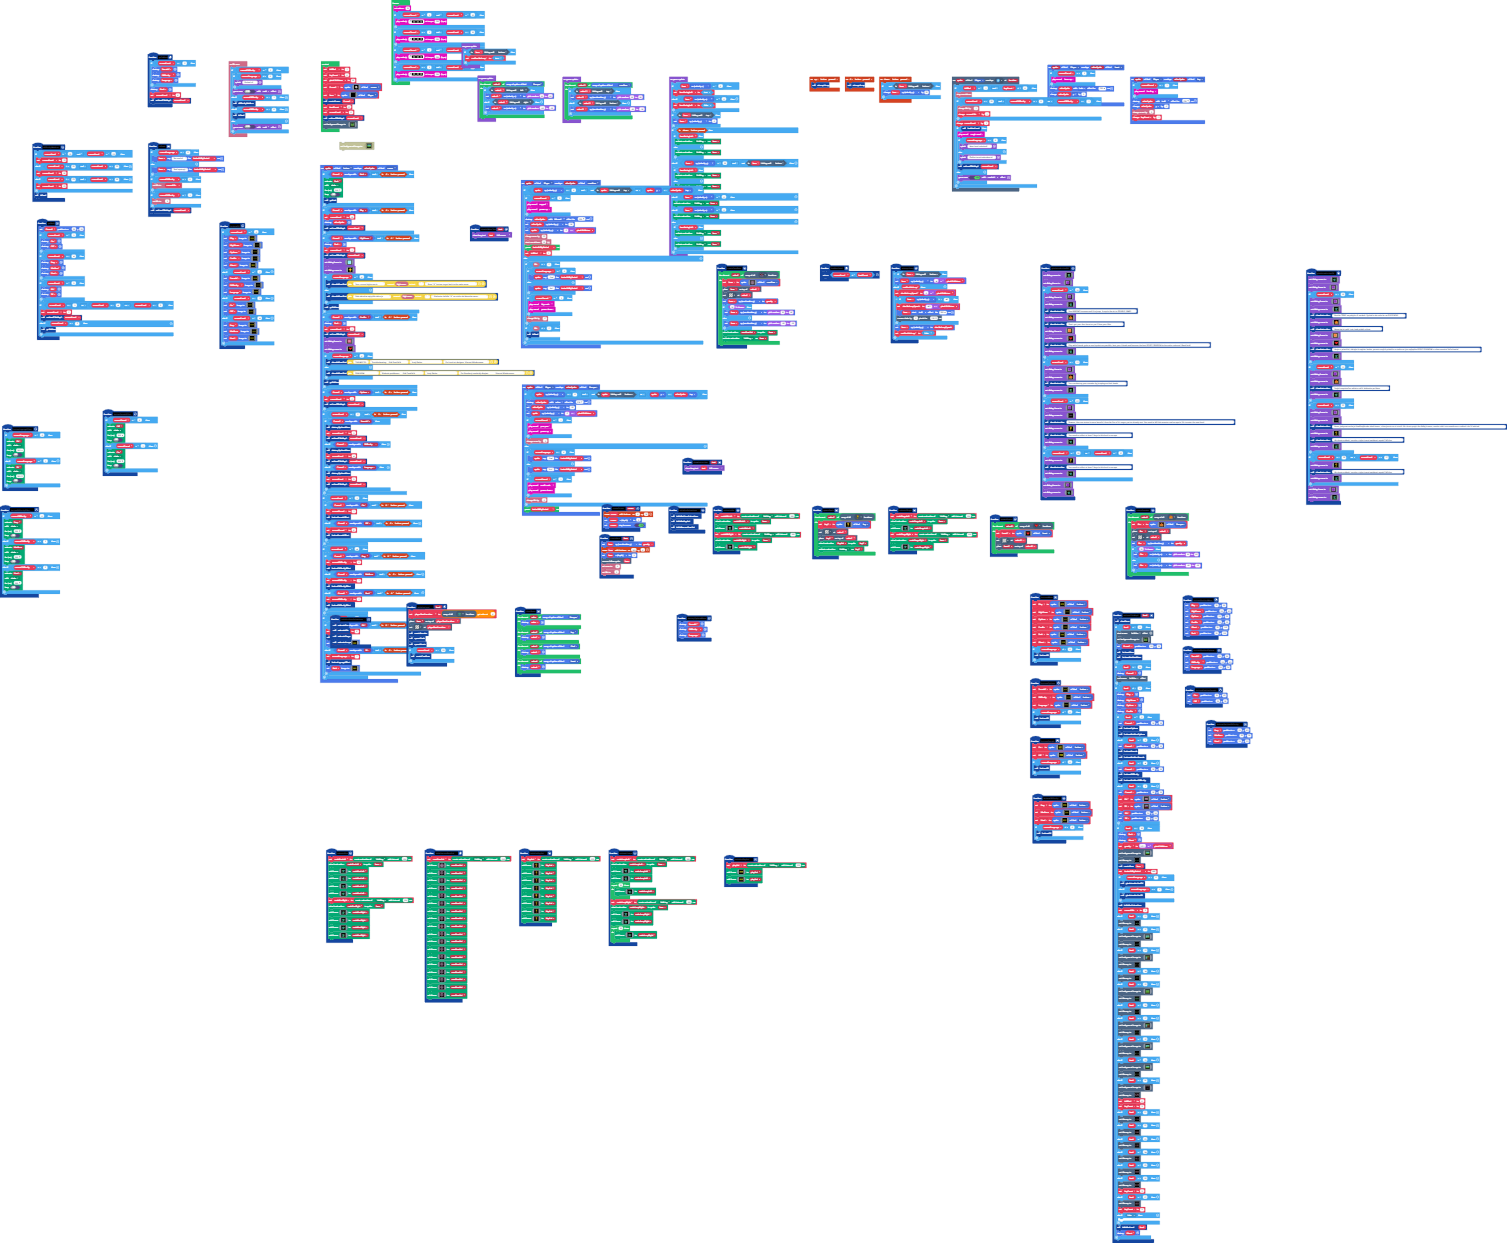
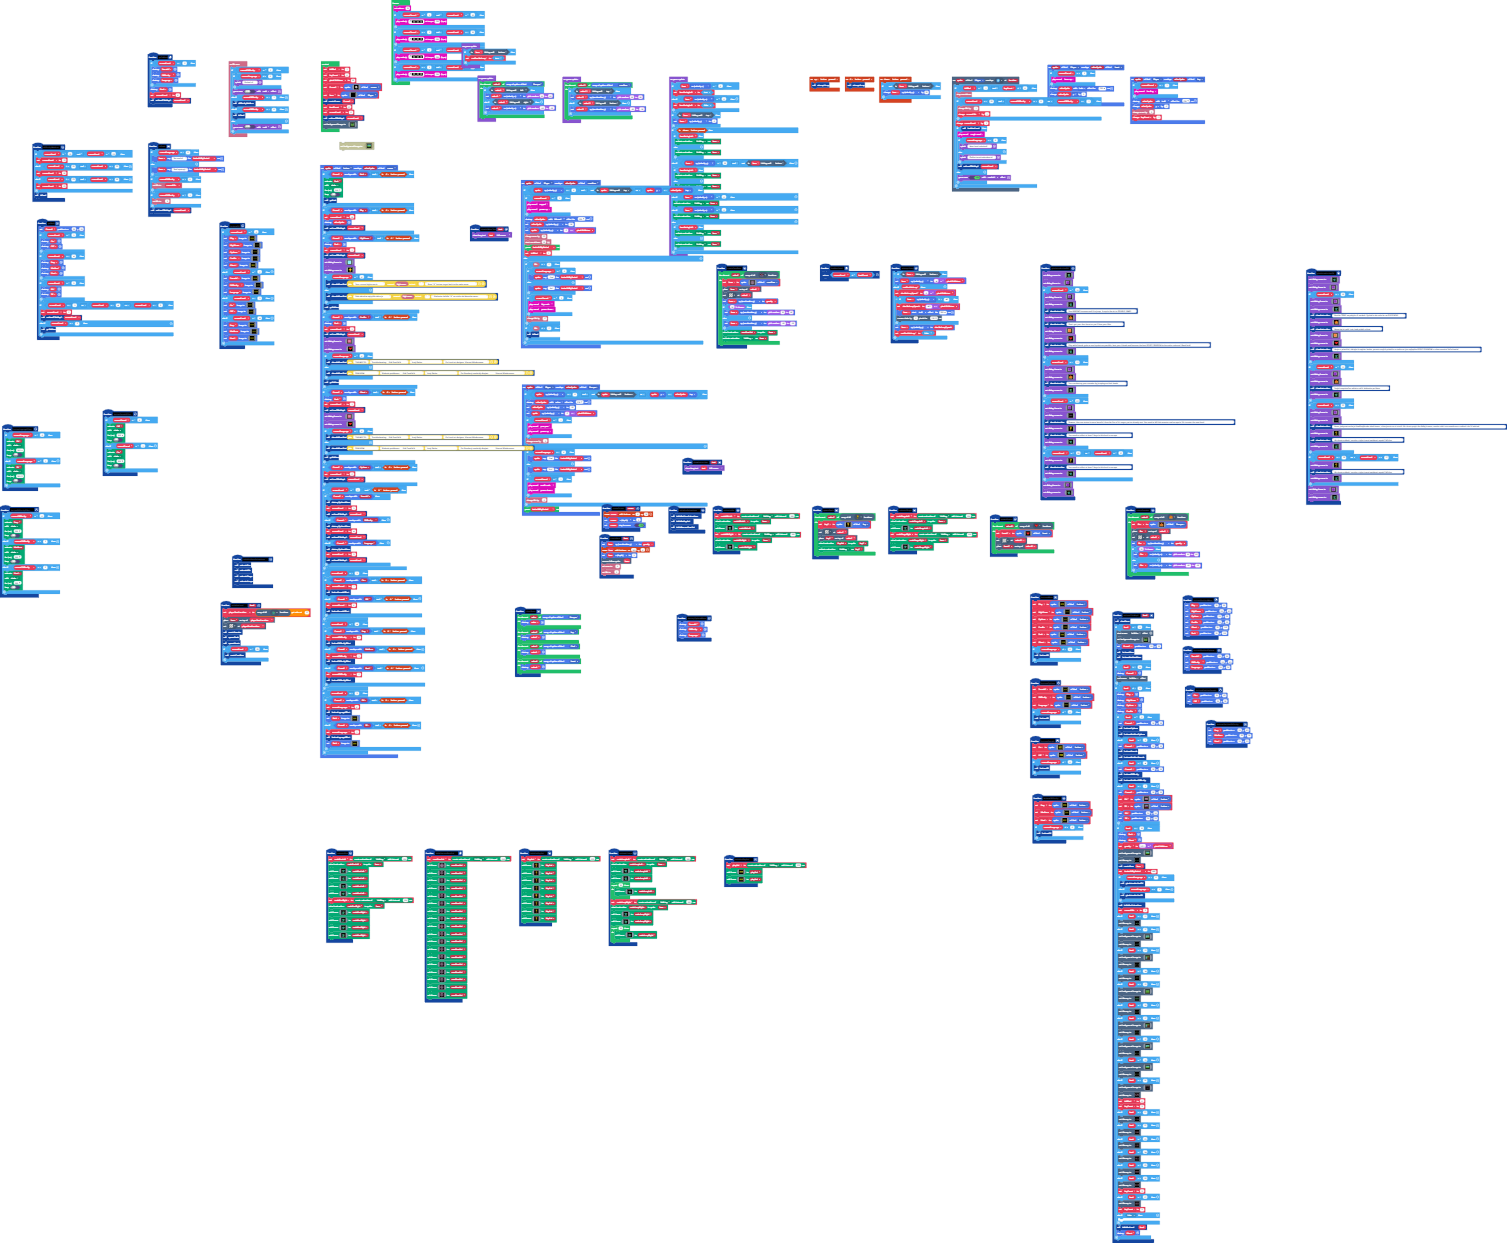
Back is being the issue.

Changed region(s): [[0.1248, 0.3057, 0.3431, 0.6114]]

diff --git a/main.ts b/main.ts
@@ -3143,6 +3143,53 @@ sprites.onOverlap(SpriteKind.button, SpriteKind.cursor, function (sprite, otherS
         }
         goToMenu()
     }
+    if (Cursor0.overlapsWith(About) && controller.A.isPressed()) {
+        Back.destroy()
+        currentLevel = 1
+        setLevelTileMap0(currentLevel)
+        game.setDialogFrame(img`
+            3 3 3 3 3 3 3 3 3 3 3 3 3 3 3 3 3 
+            3 2 3 2 3 2 3 2 3 2 3 2 3 2 3 2 3 
+            3 3 2 3 3 3 2 3 3 3 2 3 3 3 2 3 3 
+            3 3 3 3 3 3 3 3 3 3 3 3 3 3 3 3 3 
+            3 2 3 2 3 3 3 3 3 3 3 3 3 2 3 2 3 
+            3 3 2 3 3 3 3 3 3 3 3 3 3 3 2 3 3 
+            3 3 3 3 3 3 3 3 3 3 3 3 3 3 3 3 3 
+            3 2 3 2 3 3 3 3 3 3 3 3 3 2 3 2 3 
+            3 3 2 3 3 3 3 3 3 3 3 3 3 3 2 3 3 
+            3 3 3 3 3 3 3 3 3 3 3 3 3 3 3 3 3 
+            3 2 3 2 3 3 3 3 3 3 3 3 3 2 3 2 3 
+            3 3 2 3 3 3 3 3 3 3 3 3 3 3 2 3 3 
+            3 3 3 3 3 3 3 3 3 3 3 3 3 3 3 3 3 
+            3 2 3 2 3 2 3 2 3 2 3 2 3 2 3 2 3 
+            3 3 2 3 3 3 2 3 3 3 2 3 3 3 2 3 3 
+            3 3 3 3 3 3 3 3 3 3 3 3 3 3 3 3 3 
+            `)
+        game.setDialogCursor(img`
+            . . . . . . . . . . . . . . . . 
+            . . f f f f . . . . f f f f . . 
+            . f 2 2 2 2 f . . f 2 2 2 2 f . 
+            f 2 2 2 2 2 2 f f 2 2 2 2 2 2 f 
+            f 2 2 2 2 2 2 2 2 2 2 2 4 2 2 f 
+            f 2 2 2 2 2 2 2 2 2 2 4 2 2 2 f 
+            f c 2 2 2 2 2 2 2 2 2 2 2 2 2 f 
+            . f c 2 2 2 2 2 2 2 2 2 2 2 f . 
+            . . f c 2 2 2 2 2 2 2 2 2 f . . 
+            . . . f c 2 2 2 2 2 2 2 f . . . 
+            . . . . f c 2 2 2 2 2 f . . . . 
+            . . . . . f c 2 2 2 f . . . . . 
+            . . . . . . f c c f . . . . . . 
+            . . . . . . . f f . . . . . . . 
+            . . . . . . . . . . . . . . . . 
+            . . . . . . . . . . . . . . . . 
+            `)
+        if (currentLanguage == 0) {
+            showInMenuText("THANKS TO: " + "Troubleshooting     Erik Zemčík & " + "Juraj Gacho                 " + "Co-Level art designer  Vincent Wiedermann")
+        } else {
+            showInMenuText("ĎAKUJEM:             " + "Riešenie problémov       Erik Zemčík & " + "Juraj Gacho                 " + "Co-Úrovňový umelecký dizajnér              Vincent Wiedermann")
+        }
+        goToMenu()
+    }
     if (Cursor0.overlapsWith(Options) && controller.A.isPressed()) {
         currentLevel = 2
         setLevelTileMap0(currentLevel)
